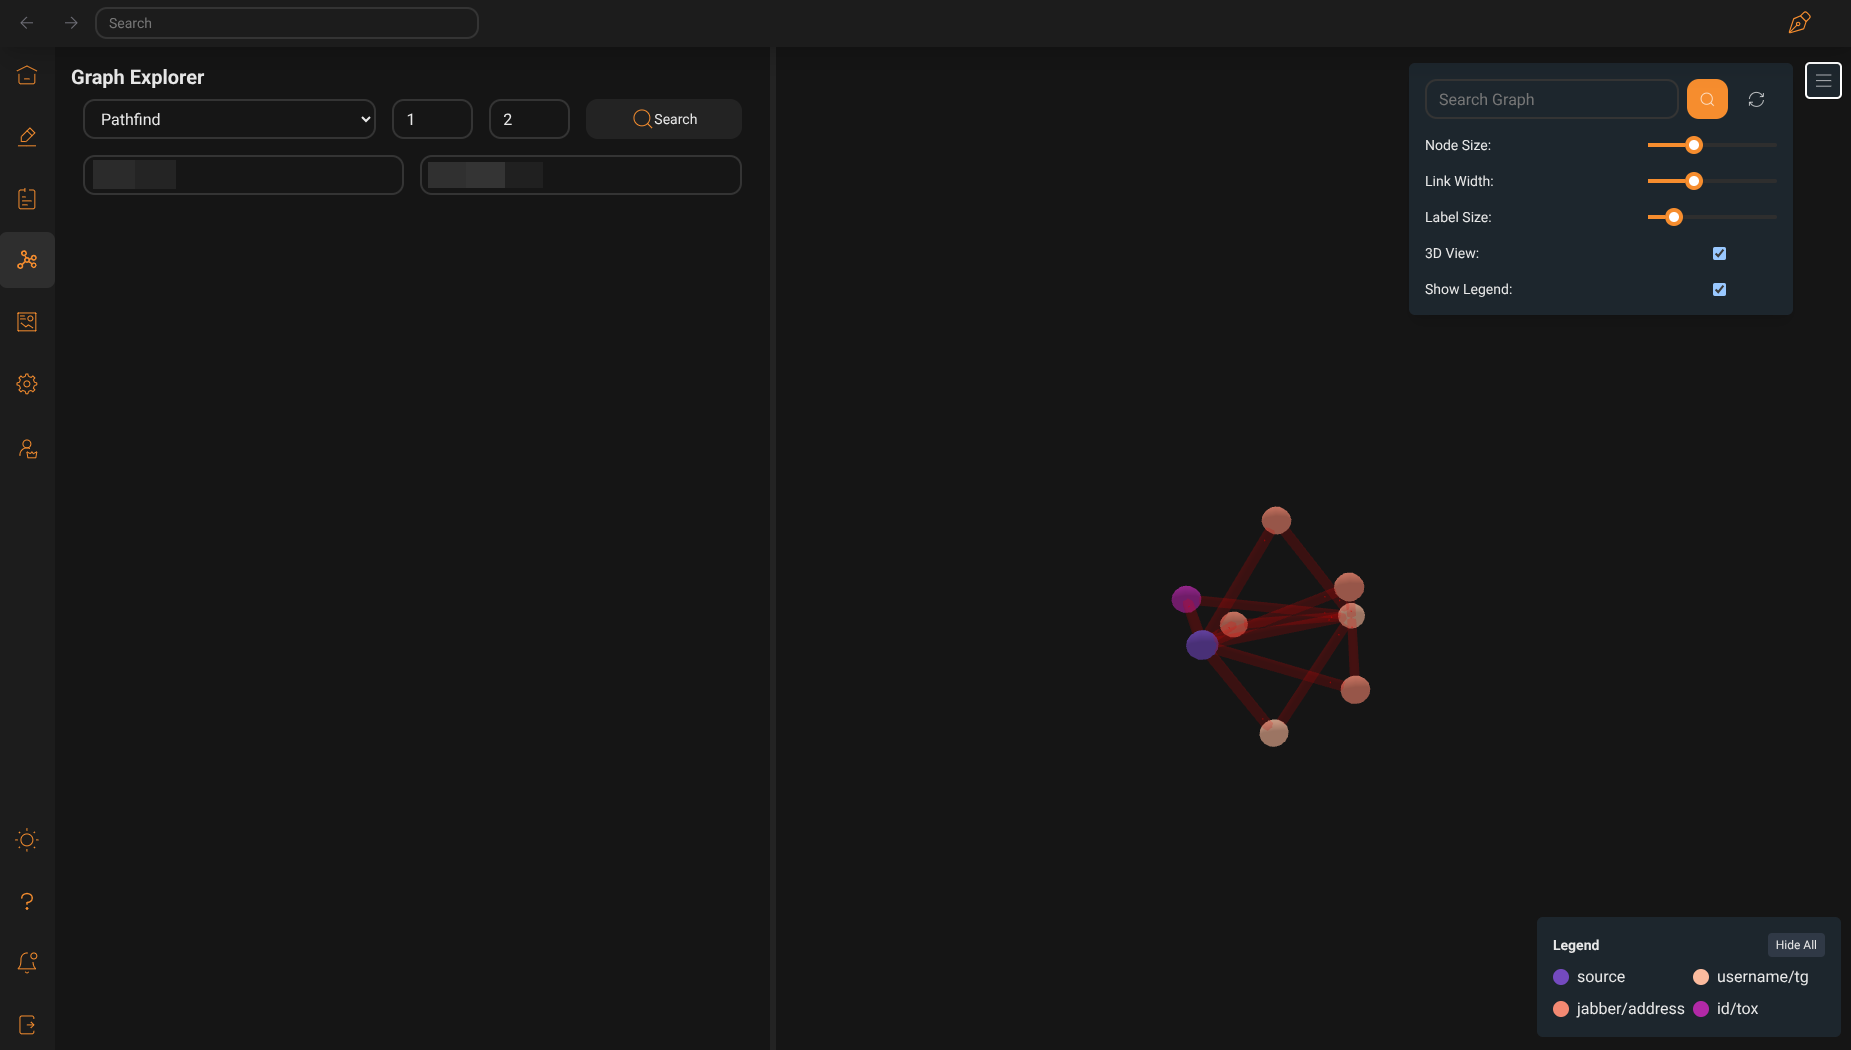
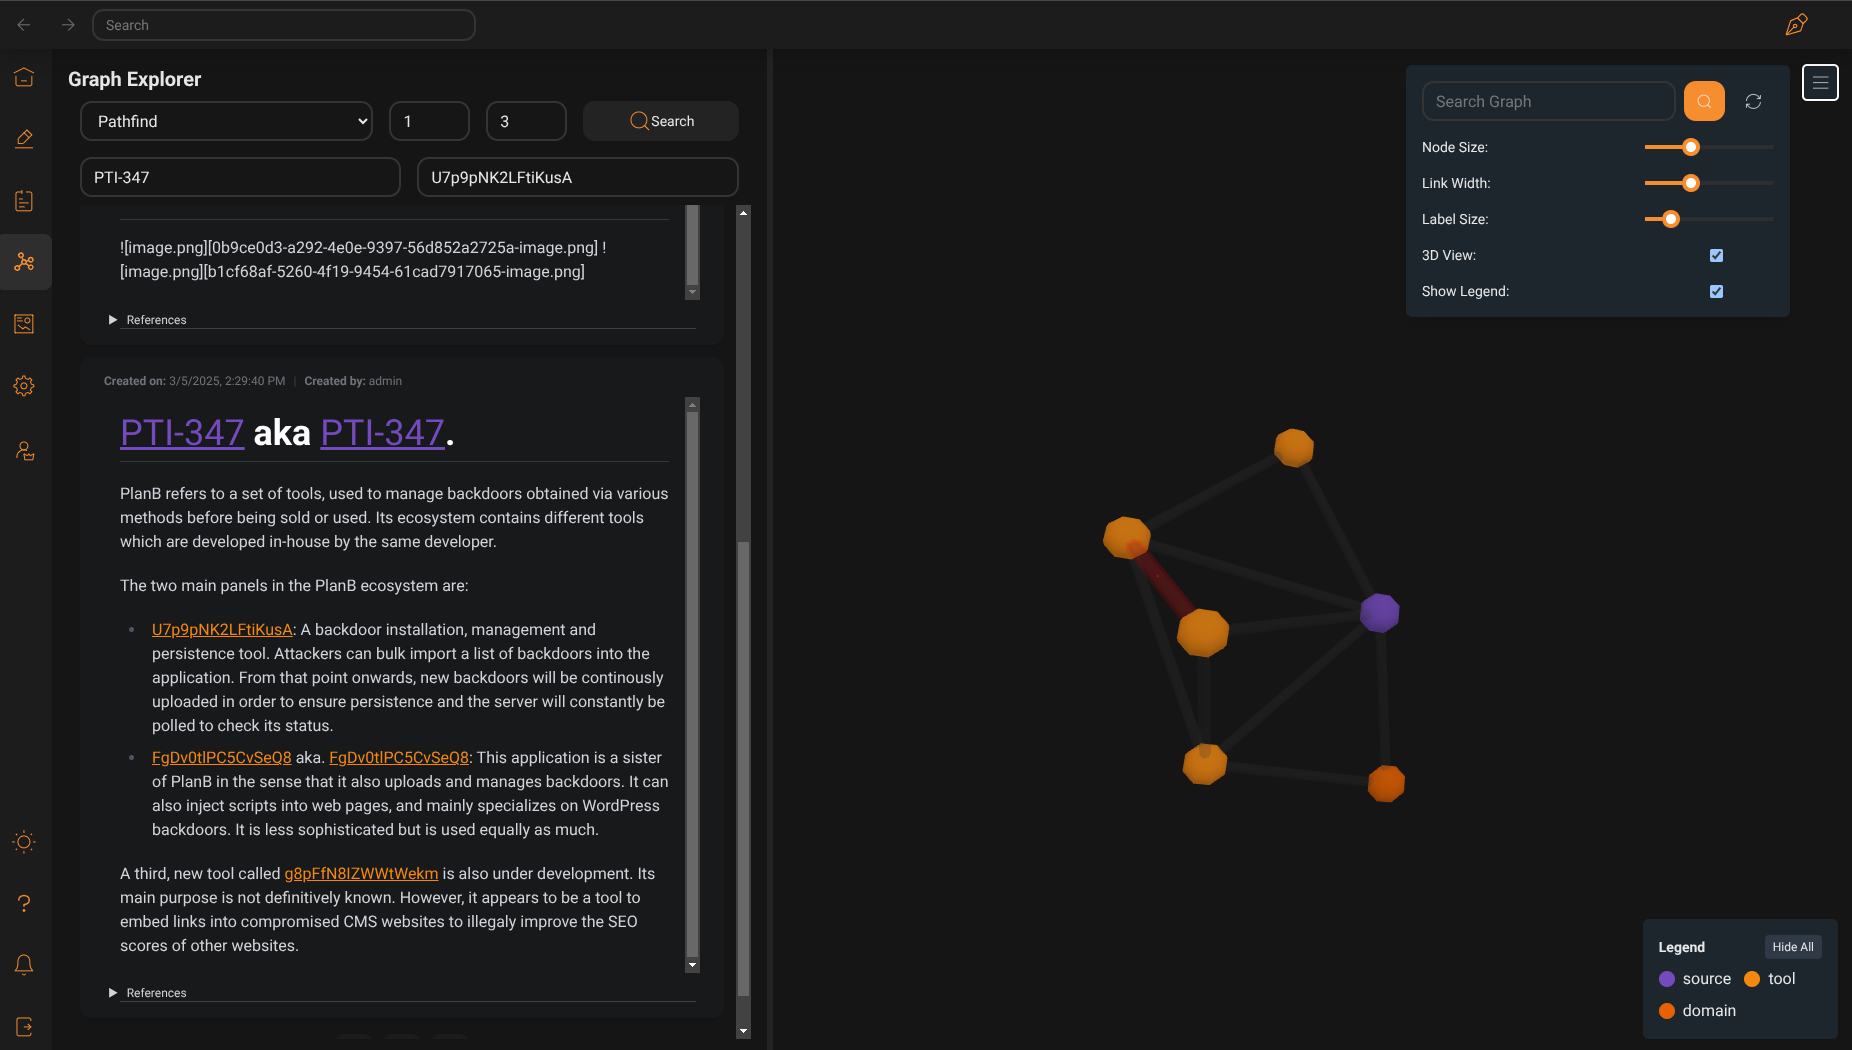
Pages testing

diff --git a/docs/content/_index.md b/docs/content/_index.md
@@ -40,48 +40,51 @@ Batteries included collaborative knowledge management solution for threat intell
 
 {{< hextra/feature-grid >}}
   {{< hextra/feature-card
-    title="Fast and Full-featured"
-    subtitle="Simple and easy to use, yet powerful and feature-rich."
+    title="Intuitive Dashboards"
+    subtitle="Centralize insights and access linked notes effortlessly."
     class="hx-aspect-auto md:hx-aspect-[1.1/1] max-md:hx-min-h-[340px]"
-    image="images/hextra-doc.webp"
+    image="images/screenshots/dashboard.png"
     imageClass="hx-top-[40%] hx-left-[24px] hx-w-[180%] sm:hx-w-[110%] dark:hx-opacity-80"
     style="background: radial-gradient(ellipse at 50% 80%,rgba(194,97,254,0.15),hsla(0,0%,100%,0));"
   >}}
   {{< hextra/feature-card
-    title="Markdown is All You Need"
-    subtitle="Compose with just Markdown. Enrich with Shortcode components."
+    title="Graph Explorer"
+    subtitle="Visualize and traverse relationships between artifacts using the graph visualizer."
     class="hx-aspect-auto md:hx-aspect-[1.1/1] max-lg:hx-min-h-[340px]"
-    image="images/hextra-markdown.webp"
+    image="images/screenshots/graph_bfs.png"
     imageClass="hx-top-[40%] hx-left-[36px] hx-w-[180%] sm:hx-w-[110%] dark:hx-opacity-80"
     style="background: radial-gradient(ellipse at 50% 80%,rgba(142,53,74,0.15),hsla(0,0%,100%,0));"
   >}}
   {{< hextra/feature-card
-    title="Full Text Search"
-    subtitle="Built-in full text search with FlexSearch, no extra setup required."
+    title="Rich Markdown Editor"
+    subtitle="Craft detailed notes with live preview and extended markdown features, aided by smart linking."
     class="hx-aspect-auto md:hx-aspect-[1.1/1] max-md:hx-min-h-[340px]"
-    image="images/hextra-search.webp"
+    image="images/screenshots/editor.png"
     imageClass="hx-top-[40%] hx-left-[36px] hx-w-[110%] sm:hx-w-[110%] dark:hx-opacity-80"
     style="background: radial-gradient(ellipse at 50% 80%,rgba(221,210,59,0.15),hsla(0,0%,100%,0));"
   >}}
   {{< hextra/feature-card
-    title="Lightweight as a Feather"
-    subtitle="No dependency or Node.js is needed to use Hextra. Powered by Hugo, one of *the fastest* static site generators, building your site in just seconds with a single binary."
+    title="Case Correlation"
+    subtitle="Explore connections between cases with pathfinding."
+    class="hx-aspect-auto md:hx-aspect-[1.1/1] max-lg:hx-min-h-[340px]"
+    image="images/screenshots/3d_pathfind.png"
+    imageClass="hx-top-[40%] hx-left-[36px] hx-w-[180%] sm:hx-w-[110%] dark:hx-opacity-80"
+    style="background: radial-gradient(ellipse at 50% 80%,rgba(142,53,74,0.15),hsla(0,0%,100%,0));"
   >}}
   {{< hextra/feature-card
-    title="Responsive with Dark Mode Included"
-    subtitle="Looks great on different screen sizes. Built-in dark mode support, with auto-switching based on user's system preference."
+    title="Custom Reports"
+    subtitle="Generate and export comprehensive analysis reports effortlessly."
+    class="hx-aspect-auto md:hx-aspect-[1.1/1] max-md:hx-min-h-[340px]"
+    image="images/screenshots/reports.png"
+    imageClass="hx-top-[40%] hx-left-[36px] hx-w-[110%] sm:hx-w-[110%] dark:hx-opacity-80"
+    style="background: radial-gradient(ellipse at 50% 80%,rgba(221,210,59,0.15),hsla(0,0%,100%,0));"
   >}}
   {{< hextra/feature-card
-    title="Build and Host for Free"
-    subtitle="Build with GitHub Actions, and host for free on GitHub Pages. Alternatively it can be hosted on any static hosting service."
-  >}}
-  {{< hextra/feature-card
-    title="Multi-Language Made Easy"
-    subtitle="Create multi-language pages by just adding locales suffix to the Markdown file. Adding i18n support to your site is intuitive."
-  >}}
-  {{< hextra/feature-card
-    title="And Much More..."
-    icon="sparkles"
-    subtitle="Syntax highlighting / Table of contents / SEO / RSS / LaTeX / Mermaid / Customizable / and more..."
+    title="Secure Publishing"
+    subtitle="Share anonymized insights safely while protecting sensitive data."
+    class="hx-aspect-auto md:hx-aspect-[1.1/1] max-md:hx-min-h-[340px]"
+    image="images/screenshots/anonymized_html.png"
+    imageClass="hx-top-[40%] hx-left-[36px] hx-w-[110%] sm:hx-w-[110%] dark:hx-opacity-80"
+    style="background: radial-gradient(ellipse at 50% 80%,rgba(221,210,59,0.15),hsla(0,0%,100%,0));"
   >}}
 {{< /hextra/feature-grid >}}

diff --git a/docs/content/docs/userguide/_index.md b/docs/content/docs/userguide/_index.md
@@ -1,0 +1,49 @@
++++
+date = '2025-03-05T12:55:52+01:00'
+draft = false
+linkTitle = 'UserGuide'
+title = 'User Guide'
++++
+
+Welcome to your comprehensive resource for mastering **CRADLE**—the
+collaborative threat intelligence platform designed to streamline your analysis
+workflows. This guide will walk you through every aspect of the application,
+from crafting insightful notes and visualizing complex relationships to
+managing access controls and generating detailed reports.
+
+## Glossary
+- **Entry**
+  The fundamental unit in CRADLE representing either an entity or an artifact.
+  - **Entity:** A high-level object under investigation (e.g., a case, organization, or campaign).
+  - **Artifact:** A specific piece of evidence or indicator (e.g., an IP address, domain name, or file hash).
+
+- **Note**
+  A document that contains analysis, observations, or findings related to one or more entries.
+  - **Publishable Note:** A finalized note ready for external sharing and inclusion in reports.
+  - **Non-publishable Note:** An internal working note intended only for private or team use.
+
+- **Fleeting Note**
+  A temporary, auto-saved draft used to quickly capture information. Fleeting notes remain private until they are finalized and linked to specific entries.
+
+- **Access Types**
+  The permission levels that determine how users can interact with entries:
+  - **None:** No access to view or modify notes.
+  - **Read:** Permission to view notes referencing the entry.
+  - **Read-Write:** Permission to view and create notes referencing the entry.
+
+- **Roles**
+  Predefined user roles in CRADLE that dictate additional capabilities:
+  - **Admin:** Full system control, including user and permission management.
+  - **Entry Manager:** Authority to manage entities, entry types, and related metadata.
+  - **User:** Standard access for creating and viewing notes.
+
+- **Relations**
+  Automatic links created between entries when they are referenced in notes. These connections form a comprehensive knowledge graph of your data.
+
+- **Entry Class**
+  A categorization framework for entries, defining:
+  - **Type:** Indicates if the entry is an entity or an artifact.
+  - **Subtype:** Specifies the classification (e.g., "malware/ransomware" or "ip/v4").
+  - **Validation Rules:** Includes regex patterns or enumerated options to ensure data integrity.
+
+Feel free to refer back to this glossary whenever you encounter new terms throughout the CRADLE documentation.

diff --git a/docs/content/docs/_index.md b/docs/content/docs/_index.md
@@ -1,5 +1,49 @@
 +++
 date = '2025-03-05T12:55:52+01:00'
-draft = true
-title = 'Docs'
+draft = false
+linkTitle = 'Documentation'
+title = 'Introduction'
 +++
+
+🚀 **Welcome to CRADLE!**  
+
+Your all-in-one **collaborative threat intelligence** platform is here! This guide will help you set up, explore, and maximize CRADLE for seamless cyber threat investigations.  
+
+## 🔍 What is CRADLE?  
+
+CRADLE is a powerful tool built for **Cyber Threat Intelligence (CTI)** analysts. It combines collaborative note-taking, automated data linking, and dynamic visualizations—so you can **capture, analyze, and share** threat intelligence with ease. Whether investigating incidents or generating reports, CRADLE keeps everything in one secure space.  
+
+## 🎯 Our Mission  
+
+CRADLE is built on five core values:  
+
+- 🤝 **Collaboration** – Work together seamlessly with shared insights.  
+- 🎯 **Simplicity** – A clean, intuitive experience that boosts productivity.  
+- ⚡ **Automation** – Smart entity & artifact linking to reduce manual work.  
+- 🔒 **Security** – Robust access controls to protect sensitive data.  
+- 🚀 **Innovation** – Constantly evolving to meet new cyber threats.  
+
+## ✨ Key Features  
+
+✅ **Collaborative Note-Taking** – Effortlessly document & share intelligence.  
+✅ **Automatic Data Linking** – CRADLE connects related entities & artifacts for you.  
+✅ **Interactive Visualizations** – Graph explorer & dashboards for deeper insights.  
+✅ **Report Generation** – Export intelligence reports in multiple formats.  
+✅ **Advanced Markdown Editor** – Live preview, syntax highlighting & more.  
+✅ **Granular Access Control** – Ensure only the right people see sensitive data.  
+
+## 💡 Need Help?  
+
+We’re here for you! If you have questions, feedback, or feature requests:  
+
+🔹 **GitHub Issues:** [Report bugs or suggest features](https://github.com/prodaft/cradle/issues/new)  
+🔹 **Twitter:** [Contact the CATALYST Threat Intelligence Team](https://twitter.com/prodaft)  
+🔹 **Community Channels:** Visit [our website](https://catalyst.prodaft.com) to connect.  
+
+## 🚀 Get Started  
+
+Ready to dive in? Start your CRADLE journey here:  
+
+{{< cards >}}  
+{{< card link="getting-started" title="Getting Started" icon="document-text" subtitle="Set up CRADLE in no time!" >}}  
+{{< /cards >}}  

diff --git a/docs/content/docs/getting-started.md b/docs/content/docs/getting-started.md
@@ -1,0 +1,71 @@
++++
+date = '2025-03-05T12:55:52+01:00'
+draft = false
+linkTitle = 'GettingStarted'
+title = 'Getting Started'
++++
+
+This guide will help you quickly set up and run a demo of CRADLE—the collaborative threat intelligence platform—in just a few minutes. Follow these simple steps to get up and running.
+
+## Prerequisites
+
+Before you begin, ensure you have the following installed:
+
+- **Docker** (version 20.10+)
+- **Docker Compose** (version 2.0+)
+- **Git**
+
+{{< callout emoji="❓" >}} **Tip:** If you don’t have Docker installed, download it from [Docker's official website](https://www.docker.com/)! {{< /callout >}}
+
+
+{{% steps %}}
+
+### Clone the Repository
+Open your terminal and run the following command to clone the CRADLE repository:
+```sh
+git clone https://github.com/prodaft/cradle.git
+```
+
+### Navigate to the Project Directory
+Change into the newly cloned repository:
+```sh
+cd cradle
+```
+
+### Start the Demo Environment
+Launch the demo using Docker Compose with the pre-configured demo file:
+```sh
+docker compose -f docker-compose.demo.yml up -d
+```
+This command downloads the necessary images, builds the containers, and starts all services in the background.
+
+### Open CRADLE in Your Browser
+Once the containers are running, open your web browser and navigate to:
+```
+http://localhost:8000
+```
+You should see the CRADLE login page.
+
+### Log In to the Application
+Use the default credentials to log in:
+- **Username:** admin
+- **Password:** admin
+
+### Explore CRADLE
+Now that you're logged in, take a few minutes to:
+- **Browse Dashboards:** View centralized intelligence data and explore related entities.
+- **Use the Graph Explorer:** Visualize and traverse relationships between entities and artifacts.
+- **Create and Edit Notes:** Experience collaborative note-taking and see how CRADLE links related data automatically.
+
+
+{{% /steps %}}
+
+
+## Wrapping Up
+
+You now have a fully functional demo of CRADLE running on your machine! When you’re finished exploring, you can stop the demo by executing:
+```sh
+docker compose -f docker-compose.demo.yml down
+```
+
+For more detailed documentation and advanced configuration, please refer to the [CRADLE Documentation](https://github.com/prodaft/cradle).
